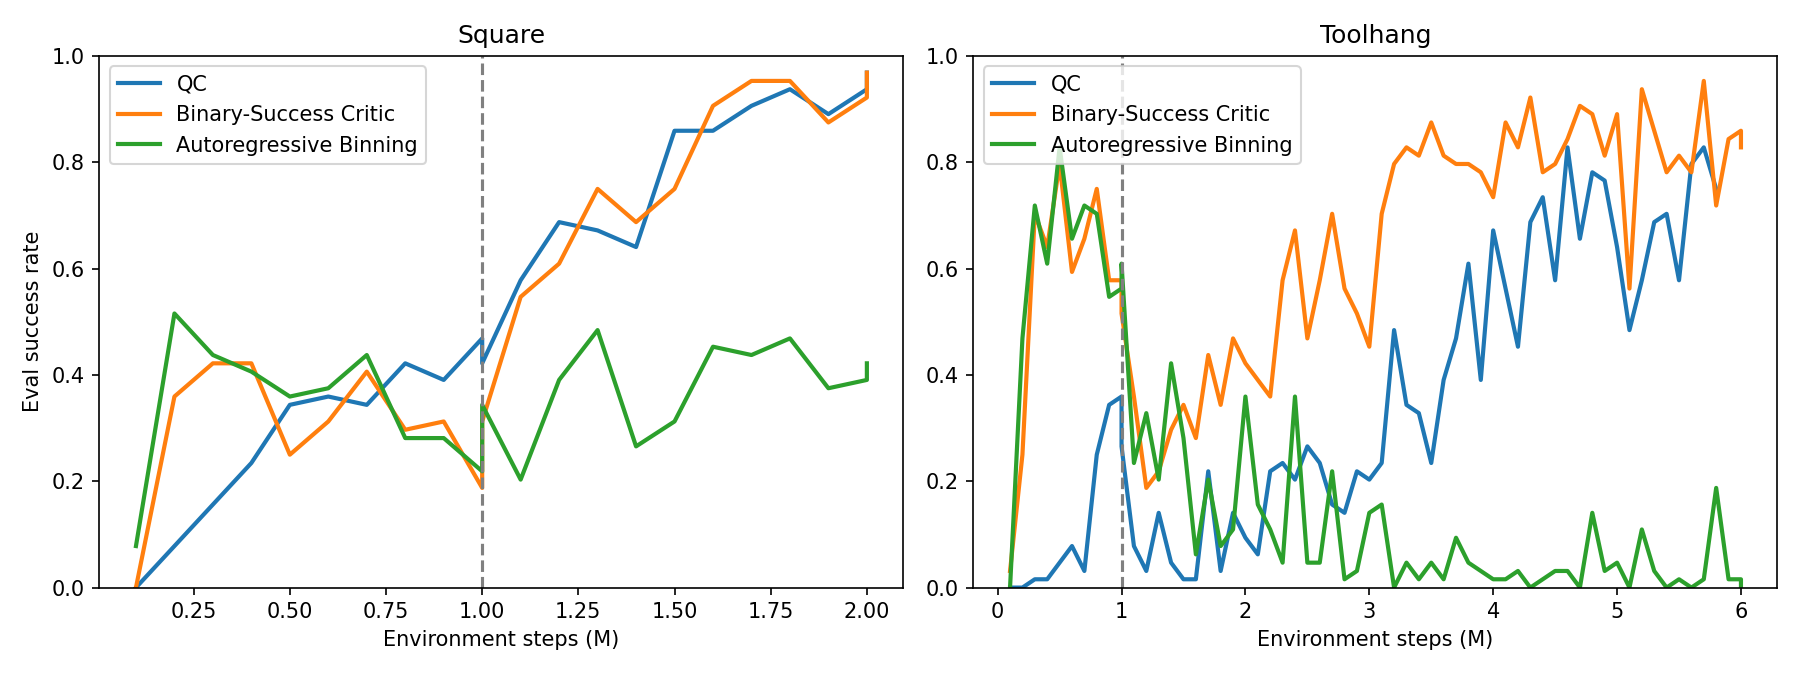
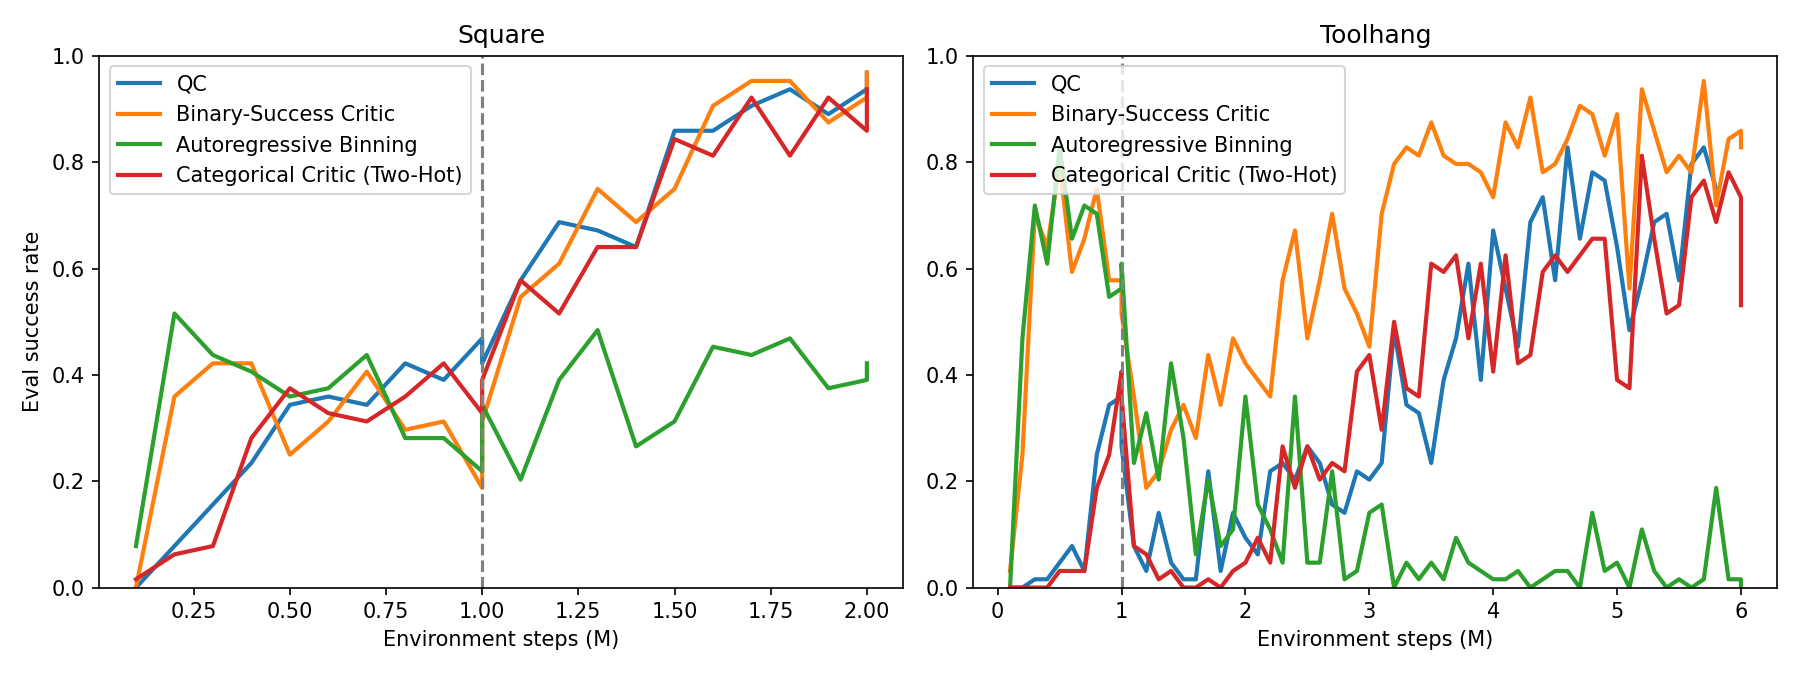
Added Two-Hot encoding

diff --git a/visualization/plot_eval_success.py b/visualization/plot_eval_success.py
@@ -1,4 +1,4 @@
-"""Plot eval/success for the {Square,Toolhang}-{QC,BSC,ARB} wandb runs.
+"""Plot eval/success for the {Square,Toolhang}-{QC,BSC,ARB,CAT} wandb runs.
 
 Usage: python visualization/plot_eval_success.py [--out PATH]
 """
@@ -14,8 +14,9 @@ import wandb
 ENTITY = 'RL-experiments'
 PROJECT = 'BSC'
 TASKS = ['Square', 'Toolhang']
-METHODS = ['QC', 'BSC', 'ARB']
-LABELS = {'QC': 'QC', 'BSC': 'Binary-Success Critic', 'ARB': 'Autoregressive Binning'}
+METHODS = ['QC', 'BSC', 'ARB', 'CAT']
+LABELS = {'QC': 'QC', 'BSC': 'Binary-Success Critic', 'ARB': 'Autoregressive Binning',
+          'CAT': 'Categorical Critic (Two-Hot)'}
 OFFLINE_STEPS = 1_000_000
 
 
